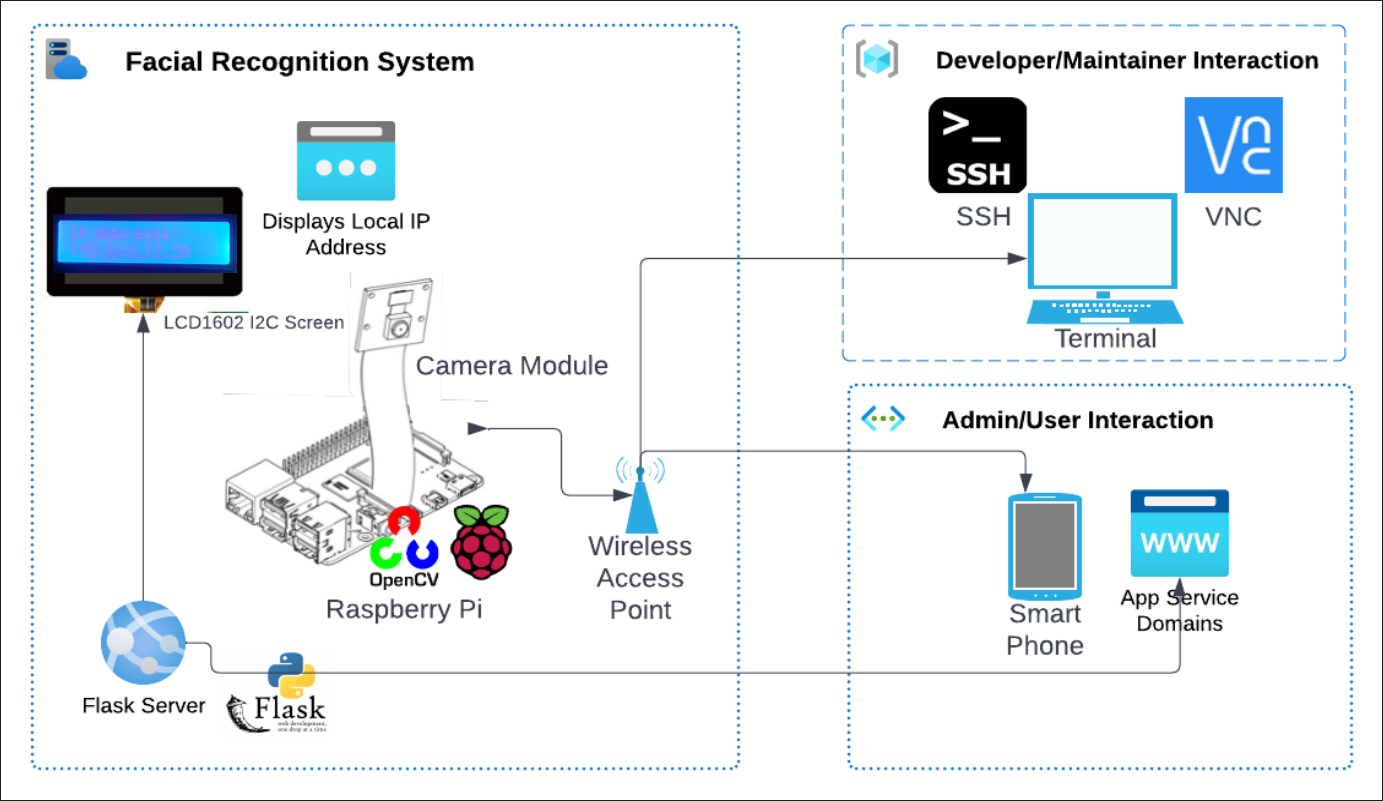
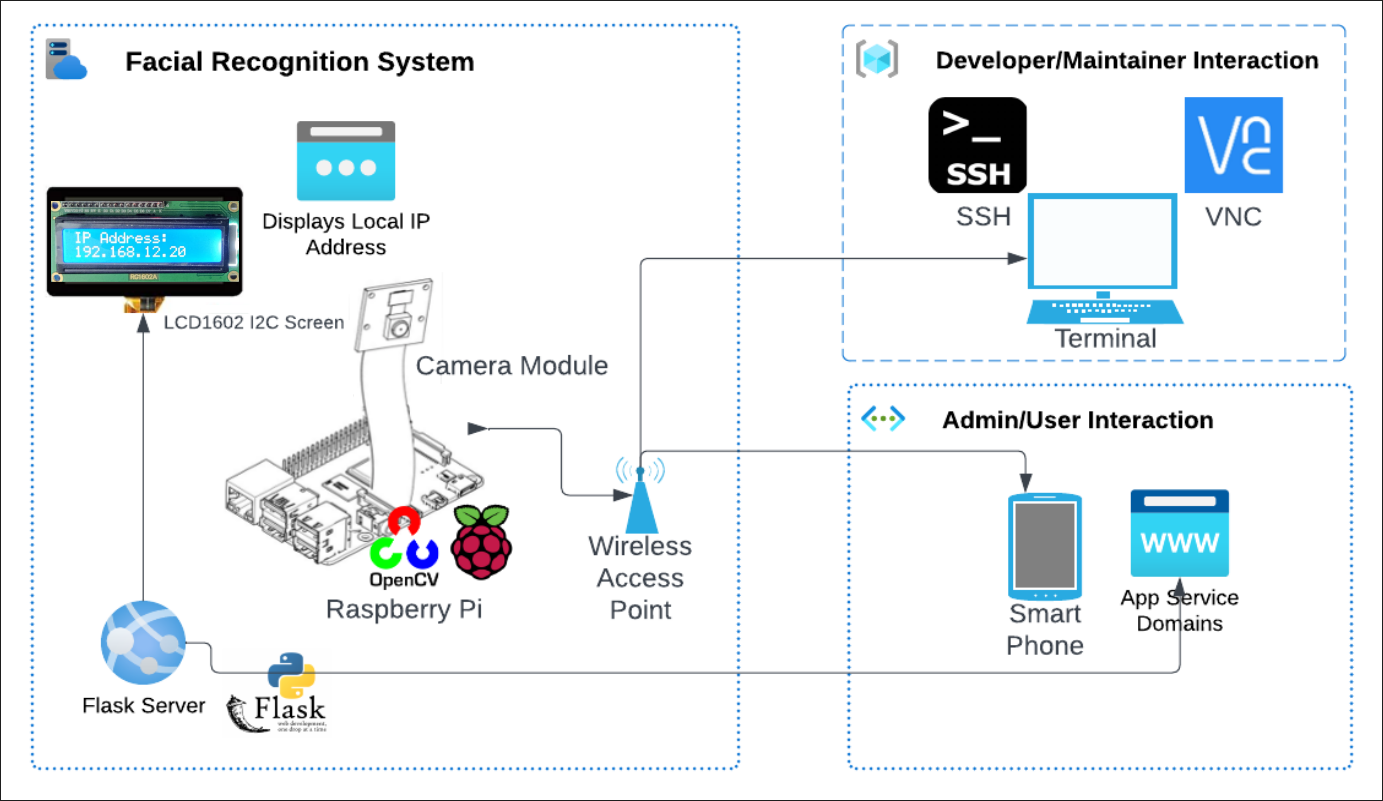
README: Updating TDL + Improving the Architecture Diagram image

Changed region(s): [[0.0311, 0.2497, 0.1866, 0.3745]]

diff --git a/README.md b/README.md
@@ -49,8 +49,8 @@ the image above displays the initial view of our web user interface (webui).
 - [x]  Port code from laptop to Raspberry Pi
 - [x]  Rewrite code using PiCamera2 Library
 - [x]  Make folder if it doesn't exist.
-- [ ]  Integrate Flask for WebUI.
-- [ ]  MJPEG Stream using Flask
+- [x]  Integrate Flask for WebUI.
+- [x]  MJPEG Stream using Flask
 - [ ]  Set up RPi as a WiFi client and access point.
 - [ ]  Install hostapd - WiFi driver (Ubuntu packs in Raspi?)
 - [ ]  Implement login authentication for admin and guest.
